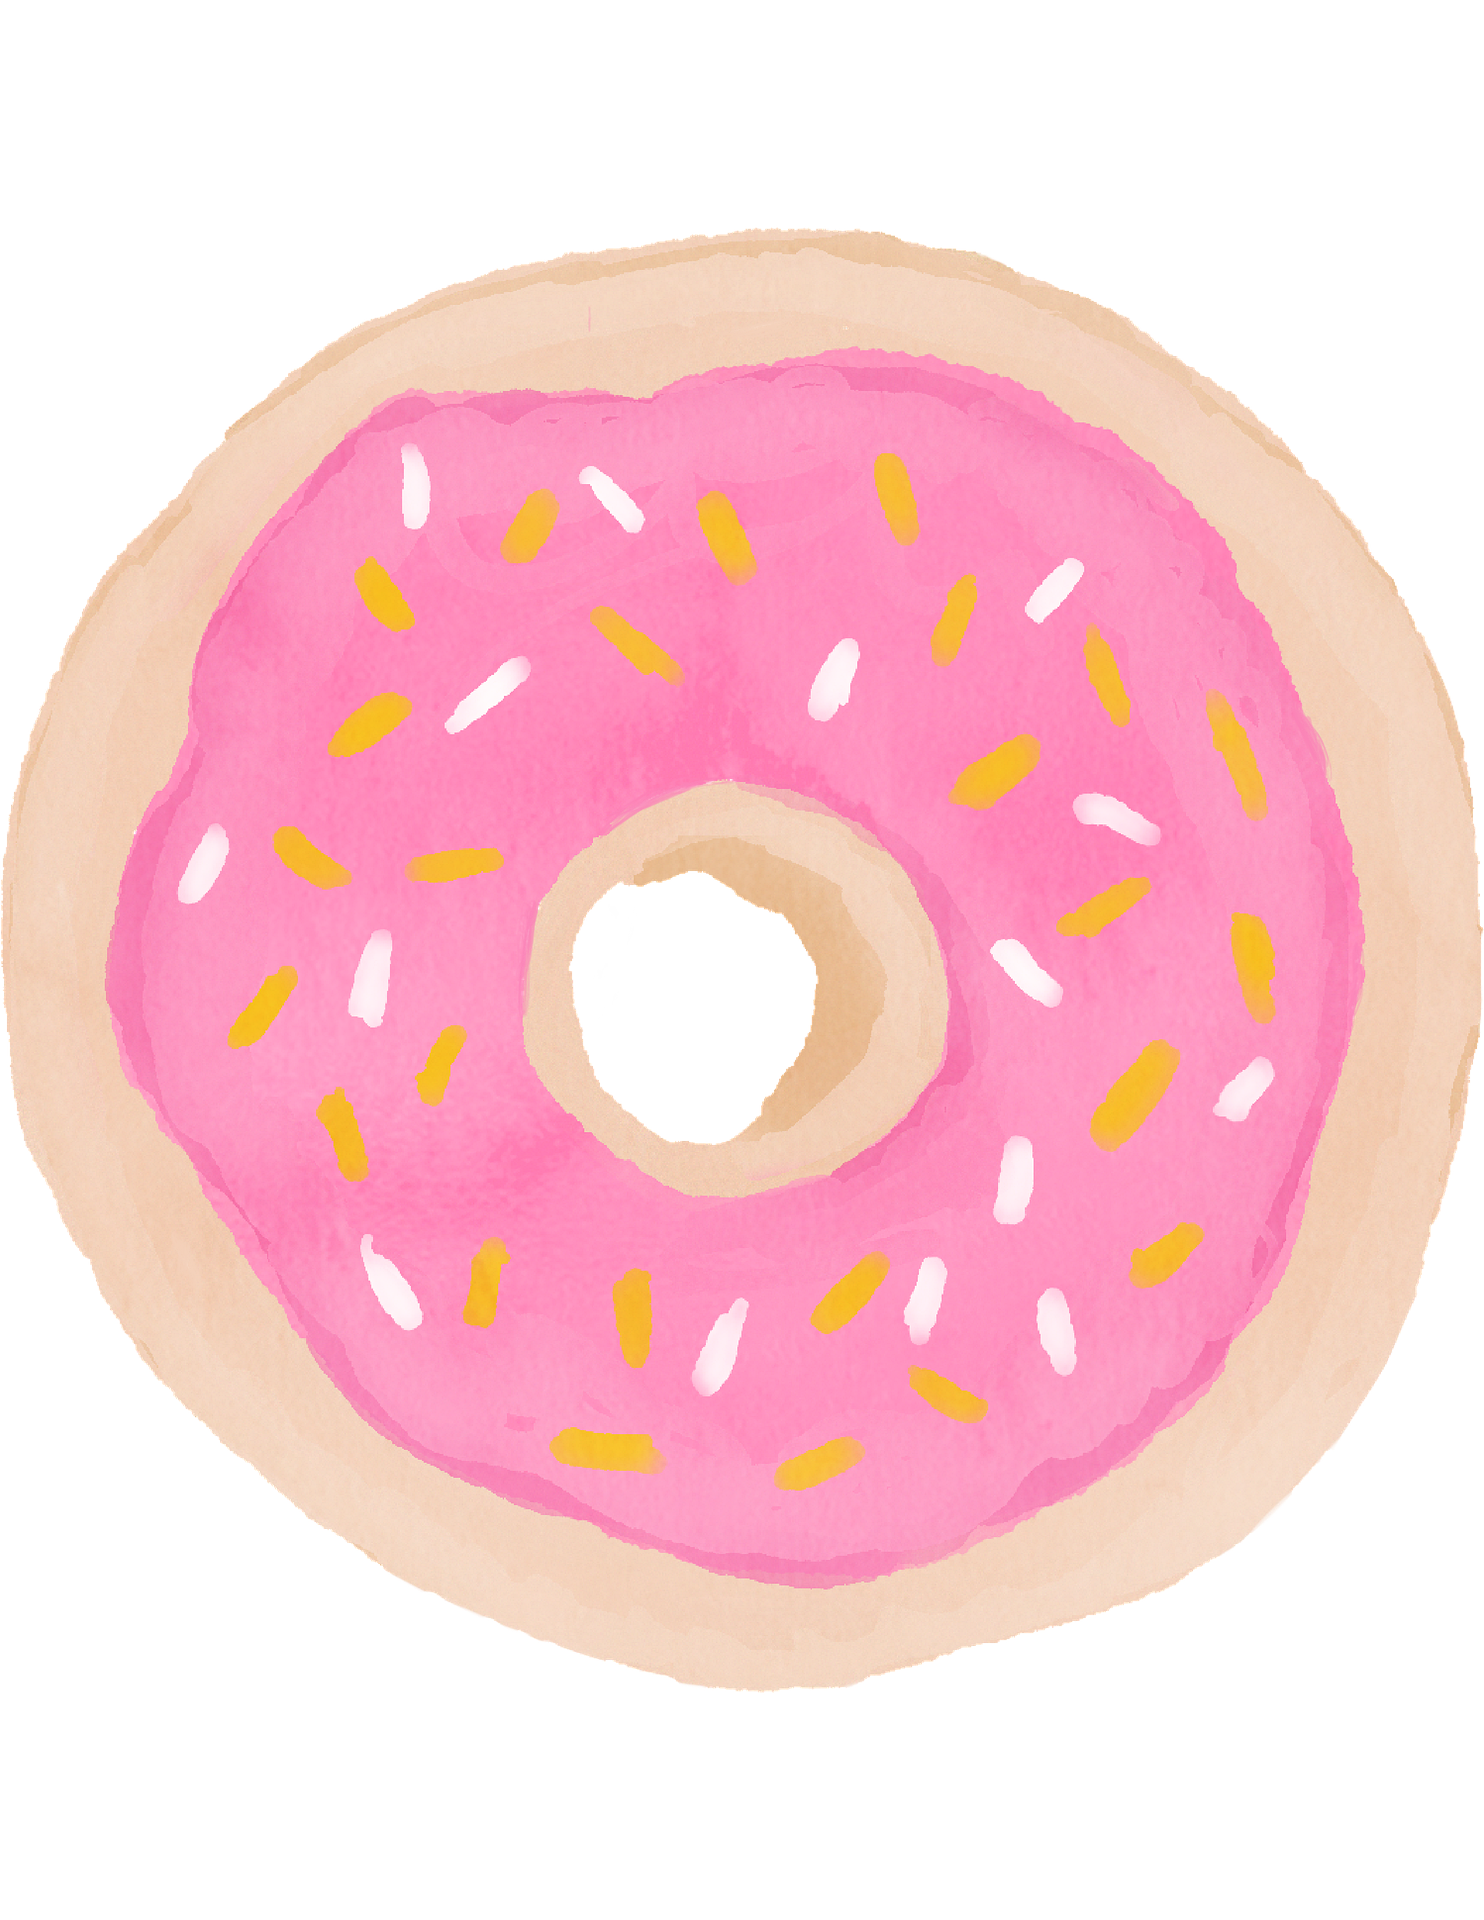
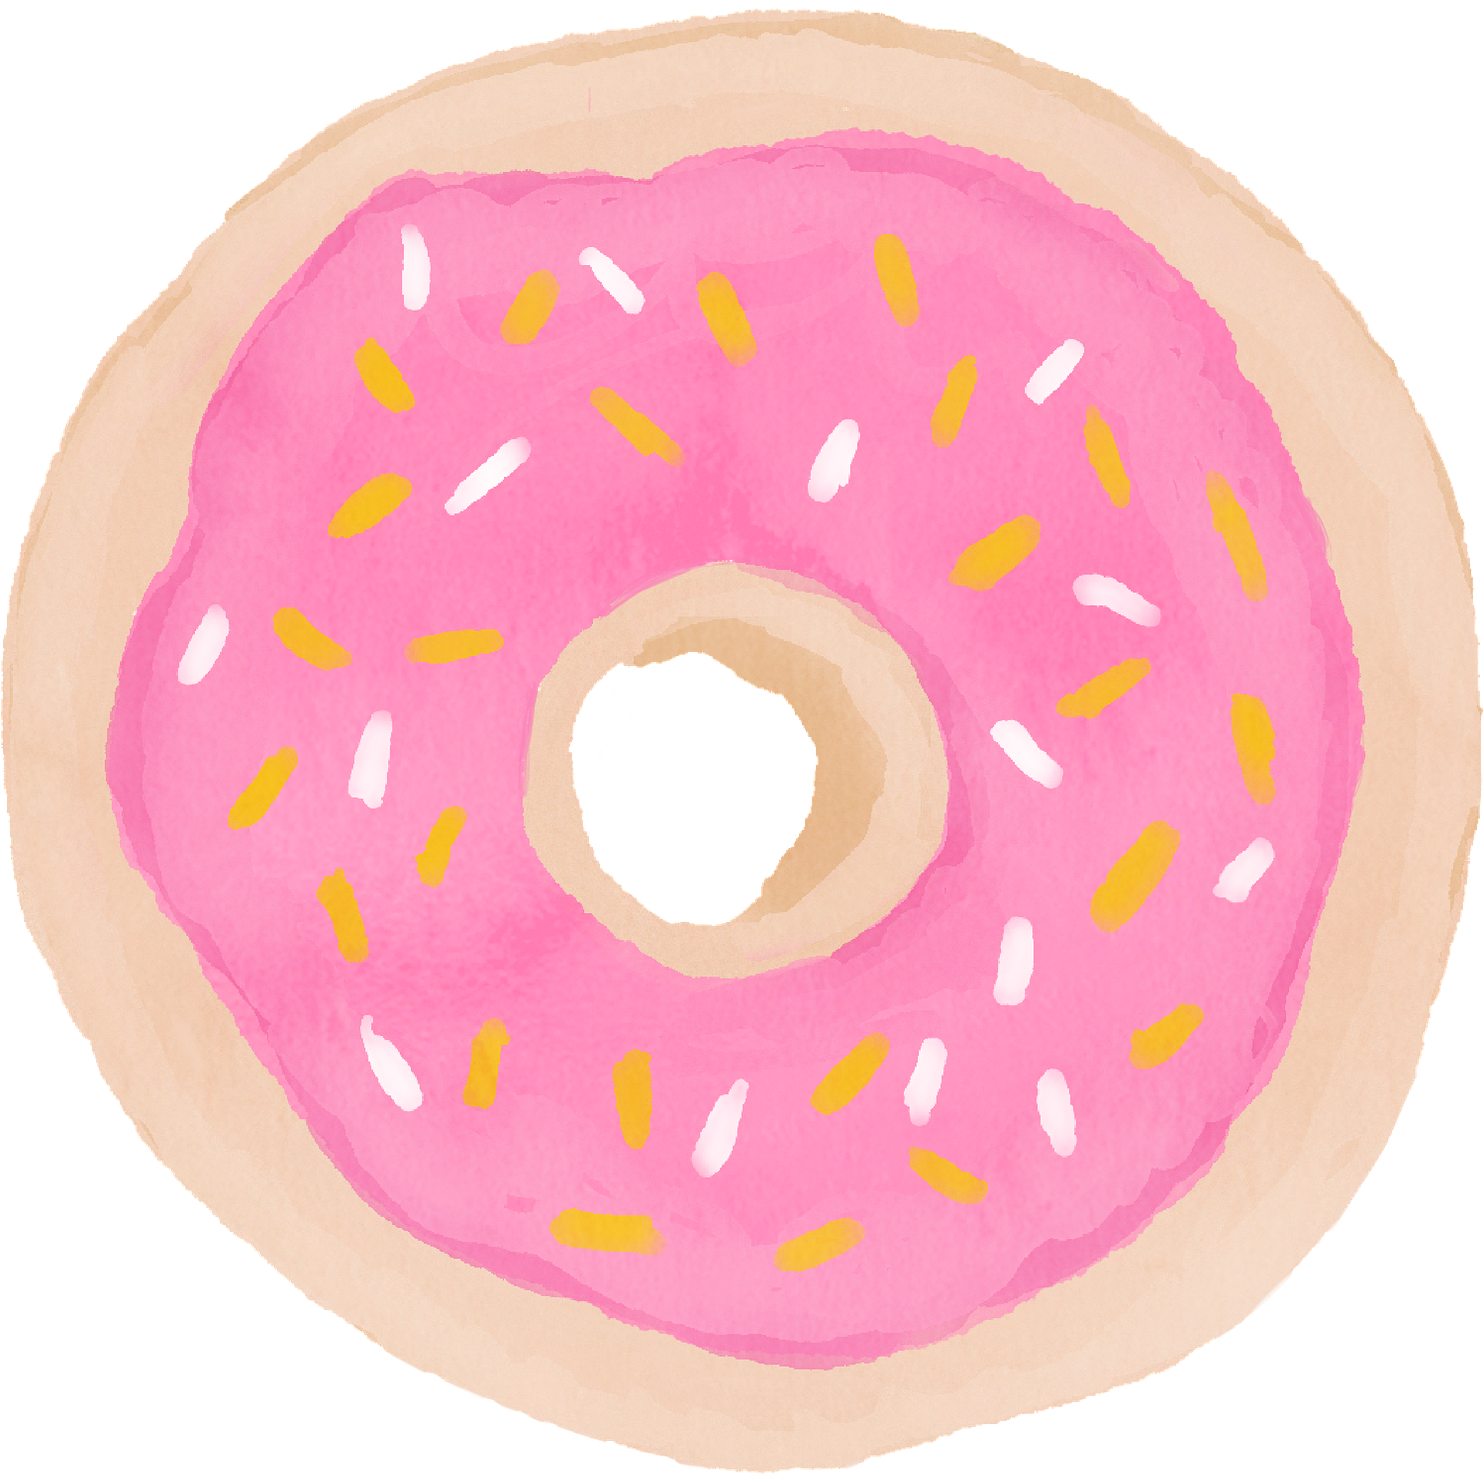
Modificado el header y canvas de todas las paginas

diff --git a/contact.html b/contact.html
@@ -7,7 +7,8 @@
     <meta name="keywords" content="Cake, unica, creative, html">
     <meta name="viewport" content="width=device-width, initial-scale=1.0">
     <meta http-equiv="X-UA-Compatible" content="ie=edge">
-    <title>Cake | Template</title>
+    <title>Contacto</title>
+    <link rel="icon" href="img/donuts/sim-donut.png">
 
     <!-- Google Font -->
     <link href="https://fonts.googleapis.com/css2?family=Playfair+Display:wght@400;500;600;700;800;900&display=swap"
@@ -37,36 +38,12 @@
     <!-- Offcanvas Menu Begin -->
     <div class="offcanvas-menu-overlay"></div>
     <div class="offcanvas-menu-wrapper">
-        <div class="offcanvas__cart">
-            <div class="offcanvas__cart__links">
-                <a href="#" class="search-switch"><img src="img/icon/search.png" alt=""></a>
-                <a href="#"><img src="img/icon/heart.png" alt=""></a>
-            </div>
-            <div class="offcanvas__cart__item">
-                <a href="#"><img src="img/icon/cart.png" alt=""> <span>0</span></a>
-                <div class="cart__price">Cart: <span>$0.00</span></div>
-            </div>
-        </div>
         <div class="offcanvas__logo">
-            <a href="./index.html"><img src="img/logo.png" alt=""></a>
+            <a href="./index.html"><img src="img/snowdonuts-logo.png" alt=""></a>
         </div>
         <div id="mobile-menu-wrap"></div>
         <div class="offcanvas__option">
-            <ul>
-                <li>USD <span class="arrow_carrot-down"></span>
-                    <ul>
-                        <li>EUR</li>
-                        <li>USD</li>
-                    </ul>
-                </li>
-                <li>ENG <span class="arrow_carrot-down"></span>
-                    <ul>
-                        <li>Spanish</li>
-                        <li>ENG</li>
-                    </ul>
-                </li>
-                <li><a href="#">Sign in</a> <span class="arrow_carrot-down"></span></li>
-            </ul>
+            <h3>Mini Snowdonuts</h3>
         </div>
     </div>
     <!-- Offcanvas Menu End -->
@@ -79,34 +56,10 @@
                     <div class="col-lg-12">
                         <div class="header__top__inner">
                             <div class="header__top__left">
-                                <ul>
-                                    <li>USD <span class="arrow_carrot-down"></span>
-                                        <ul>
-                                            <li>EUR</li>
-                                            <li>USD</li>
-                                        </ul>
-                                    </li>
-                                    <li>ENG <span class="arrow_carrot-down"></span>
-                                        <ul>
-                                            <li>Spanish</li>
-                                            <li>ENG</li>
-                                        </ul>
-                                    </li>
-                                    <li><a href="#">Sign in</a> <span class="arrow_carrot-down"></span></li>
-                                </ul>
+                                <h3>Mini Snowdonuts</h3>
                             </div>
                             <div class="header__logo">
-                                <a href="./index.html"><img src="img/logo.png" alt=""></a>
-                            </div>
-                            <div class="header__top__right">
-                                <div class="header__top__right__links">
-                                    <a href="#" class="search-switch"><img src="img/icon/search.png" alt=""></a>
-                                    <a href="#"><img src="img/icon/heart.png" alt=""></a>
-                                </div>
-                                <div class="header__top__right__cart">
-                                    <a href="#"><img src="img/icon/cart.png" alt=""> <span>0</span></a>
-                                    <div class="cart__price">Cart: <span>$0.00</span></div>
-                                </div>
+                                <a href="./index.html"><img src="img/snowdonuts-logo.png" alt="" height="52px"></a>
                             </div>
                         </div>
                     </div>
@@ -119,21 +72,9 @@
                 <div class="col-lg-12">
                     <nav class="header__menu mobile-menu">
                         <ul>
-                            <li><a href="./index.html">Home</a></li>
-                            <li><a href="./about.html">About</a></li>
-                            <li><a href="./shop.html">Shop</a></li>
-                            <li><a href="#">Pages</a>
-                                <ul class="dropdown">
-                                    <li><a href="./shop-details.html">Shop Details</a></li>
-                                    <li><a href="./shoping-cart.html">Shoping Cart</a></li>
-                                    <li><a href="./checkout.html">Check Out</a></li>
-                                    <li><a href="./wisslist.html">Wisslist</a></li>
-                                    <li><a href="./Class.html">Class</a></li>
-                                    <li><a href="./blog-details.html">Blog Details</a></li>
-                                </ul>
-                            </li>
-                            <li><a href="./blog.html">Blog</a></li>
-                            <li class="active"><a href="./contact.html">Contact</a></li>
+                            <li><a href="./index.html">Inicio</a></li>
+                            <li><a href="./shop.html">Galeria</a></li>
+                            <li class="active"><a href="./contact.html">Contacto</a></li>
                         </ul>
                     </nav>
                 </div>

diff --git a/shop.html b/shop.html
@@ -7,7 +7,8 @@
     <meta name="keywords" content="Cake, unica, creative, html">
     <meta name="viewport" content="width=device-width, initial-scale=1.0">
     <meta http-equiv="X-UA-Compatible" content="ie=edge">
-    <title>Cake | Template</title>
+    <title>Galeria</title>
+    <link rel="icon" href="img/donuts/sim-donut.png">
 
     <!-- Google Font -->
     <link href="https://fonts.googleapis.com/css2?family=Playfair+Display:wght@400;500;600;700;800;900&display=swap"
@@ -37,36 +38,12 @@
     <!-- Offcanvas Menu Begin -->
     <div class="offcanvas-menu-overlay"></div>
     <div class="offcanvas-menu-wrapper">
-        <div class="offcanvas__cart">
-            <div class="offcanvas__cart__links">
-                <a href="#" class="search-switch"><img src="img/icon/search.png" alt=""></a>
-                <a href="#"><img src="img/icon/heart.png" alt=""></a>
-            </div>
-            <div class="offcanvas__cart__item">
-                <a href="#"><img src="img/icon/cart.png" alt=""> <span>0</span></a>
-                <div class="cart__price">Cart: <span>$0.00</span></div>
-            </div>
-        </div>
         <div class="offcanvas__logo">
-            <a href="./index.html"><img src="img/logo.png" alt=""></a>
+            <a href="./index.html"><img src="img/snowdonuts-logo.png" alt=""></a>
         </div>
         <div id="mobile-menu-wrap"></div>
         <div class="offcanvas__option">
-            <ul>
-                <li>USD <span class="arrow_carrot-down"></span>
-                    <ul>
-                        <li>EUR</li>
-                        <li>USD</li>
-                    </ul>
-                </li>
-                <li>ENG <span class="arrow_carrot-down"></span>
-                    <ul>
-                        <li>Spanish</li>
-                        <li>ENG</li>
-                    </ul>
-                </li>
-                <li><a href="#">Sign in</a> <span class="arrow_carrot-down"></span></li>
-            </ul>
+            <h3>Mini Snowdonuts</h3>
         </div>
     </div>
     <!-- Offcanvas Menu End -->
@@ -79,34 +56,10 @@
                     <div class="col-lg-12">
                         <div class="header__top__inner">
                             <div class="header__top__left">
-                                <ul>
-                                    <li>USD <span class="arrow_carrot-down"></span>
-                                        <ul>
-                                            <li>EUR</li>
-                                            <li>USD</li>
-                                        </ul>
-                                    </li>
-                                    <li>ENG <span class="arrow_carrot-down"></span>
-                                        <ul>
-                                            <li>Spanish</li>
-                                            <li>ENG</li>
-                                        </ul>
-                                    </li>
-                                    <li><a href="#">Sign in</a> <span class="arrow_carrot-down"></span></li>
-                                </ul>
+                                <h3>Mini Snowdonuts</h3>
                             </div>
                             <div class="header__logo">
-                                <a href="./index.html"><img src="img/logo.png" alt=""></a>
-                            </div>
-                            <div class="header__top__right">
-                                <div class="header__top__right__links">
-                                    <a href="#" class="search-switch"><img src="img/icon/search.png" alt=""></a>
-                                    <a href="#"><img src="img/icon/heart.png" alt=""></a>
-                                </div>
-                                <div class="header__top__right__cart">
-                                    <a href="#"><img src="img/icon/cart.png" alt=""> <span>0</span></a>
-                                    <div class="cart__price">Cart: <span>$0.00</span></div>
-                                </div>
+                                <a href="./index.html"><img src="img/snowdonuts-logo.png" alt="" height="52px"></a>
                             </div>
                         </div>
                     </div>
@@ -119,21 +72,9 @@
                 <div class="col-lg-12">
                     <nav class="header__menu mobile-menu">
                         <ul>
-                            <li><a href="./index.html">Home</a></li>
-                            <li><a href="./about.html">About</a></li>
-                            <li class="active"><a href="./shop.html">Shop</a></li>
-                            <li><a href="#">Pages</a>
-                                <ul class="dropdown">
-                                    <li><a href="./shop-details.html">Shop Details</a></li>
-                                    <li><a href="./shoping-cart.html">Shoping Cart</a></li>
-                                    <li><a href="./checkout.html">Check Out</a></li>
-                                    <li><a href="./wisslist.html">Wisslist</a></li>
-                                    <li><a href="./Class.html">Class</a></li>
-                                    <li><a href="./blog-details.html">Blog Details</a></li>
-                                </ul>
-                            </li>
-                            <li><a href="./blog.html">Blog</a></li>
-                            <li><a href="./contact.html">Contact</a></li>
+                            <li><a href="./index.html">Inicio</a></li>
+                            <li class="active"><a href="./shop.html">Galeria</a></li>
+                            <li><a href="./contact.html">Contacto</a></li>
                         </ul>
                     </nav>
                 </div>

diff --git a/index.html b/index.html
@@ -3,11 +3,12 @@
 
 <head>
     <meta charset="UTF-8">
-    <meta name="description" content="Cake Template">
-    <meta name="keywords" content="Cake, unica, creative, html">
+    <meta name="description" content="Mini Snowdonuts">
+    <meta name="keywords" content="donuts">
     <meta name="viewport" content="width=device-width, initial-scale=1.0">
     <meta http-equiv="X-UA-Compatible" content="ie=edge">
-    <title>Cake | Template</title>
+    <title>Mini Snowdonuts</title>
+    <link rel="icon" href="img/donuts/sim-donut.png">
 
     <!-- Google Font -->
     <link href="https://fonts.googleapis.com/css2?family=Playfair+Display:wght@400;500;600;700;800;900&display=swap"
@@ -37,36 +38,12 @@
     <!-- Offcanvas Menu Begin -->
     <div class="offcanvas-menu-overlay"></div>
     <div class="offcanvas-menu-wrapper">
-        <div class="offcanvas__cart">
-            <div class="offcanvas__cart__links">
-                <a href="#" class="search-switch"><img src="img/icon/search.png" alt=""></a>
-                <a href="#"><img src="img/icon/heart.png" alt=""></a>
-            </div>
-            <div class="offcanvas__cart__item">
-                <a href="#"><img src="img/icon/cart.png" alt=""> <span>0</span></a>
-                <div class="cart__price">Cart: <span>$0.00</span></div>
-            </div>
-        </div>
         <div class="offcanvas__logo">
-            <a href="./index.html"><img src="img/logo.png" alt=""></a>
+            <a href="./index.html"><img src="img/snowdonuts-logo.png" alt=""></a>
         </div>
         <div id="mobile-menu-wrap"></div>
         <div class="offcanvas__option">
-            <ul>
-                <li>USD <span class="arrow_carrot-down"></span>
-                    <ul>
-                        <li>EUR</li>
-                        <li>USD</li>
-                    </ul>
-                </li>
-                <li>ENG <span class="arrow_carrot-down"></span>
-                    <ul>
-                        <li>Spanish</li>
-                        <li>ENG</li>
-                    </ul>
-                </li>
-                <li><a href="#">Sign in</a> <span class="arrow_carrot-down"></span></li>
-            </ul>
+            <h3>Mini Snowdonuts</h3>
         </div>
     </div>
     <!-- Offcanvas Menu End -->
@@ -84,16 +61,6 @@
                             <div class="header__logo">
                                 <a href="./index.html"><img src="img/snowdonuts-logo.png" alt="" height="52px"></a>
                             </div>
-                            <div class="header__top__right">
-                                <div class="header__top__right__links">
-                                    <a href="#" class="search-switch"><img src="img/icon/search.png" alt=""></a>
-                                    <a href="#"><img src="img/icon/heart.png" alt=""></a>
-                                </div>
-                                <div class="header__top__right__cart">
-                                    <a href="#"><img src="img/icon/cart.png" alt=""> <span>0</span></a>
-                                    <div class="cart__price">Cart: <span>$0.00</span></div>
-                                </div>
-                            </div>
                         </div>
                     </div>
                 </div>
@@ -105,21 +72,9 @@
                 <div class="col-lg-12">
                     <nav class="header__menu mobile-menu">
                         <ul>
-                            <li class="active"><a href="./index.html">Home</a></li>
-                            <li><a href="./about.html">About</a></li>
-                            <li><a href="./shop.html">Shop</a></li>
-                            <li><a href="#">Pages</a>
-                                <ul class="dropdown">
-                                    <li><a href="./shop-details.html">Shop Details</a></li>
-                                    <li><a href="./shoping-cart.html">Shoping Cart</a></li>
-                                    <li><a href="./checkout.html">Check Out</a></li>
-                                    <li><a href="./wisslist.html">Wisslist</a></li>
-                                    <li><a href="./Class.html">Class</a></li>
-                                    <li><a href="./blog-details.html">Blog Details</a></li>
-                                </ul>
-                            </li>
-                            <li><a href="./blog.html">Blog</a></li>
-                            <li><a href="./contact.html">Contact</a></li>
+                            <li class="active"><a href="./index.html">Inicio</a></li>
+                            <li><a href="./shop.html">Galeria</a></li>
+                            <li><a href="./contact.html">Contacto</a></li>
                         </ul>
                     </nav>
                 </div>
